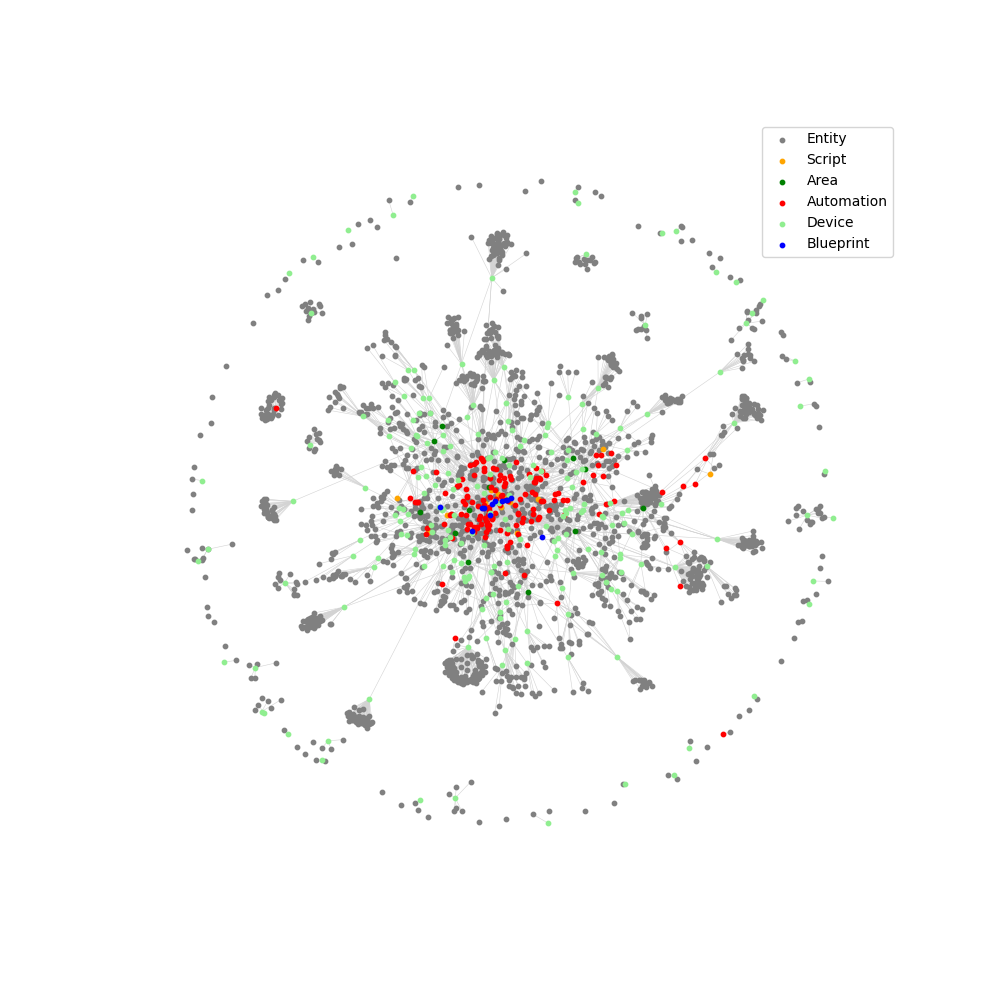
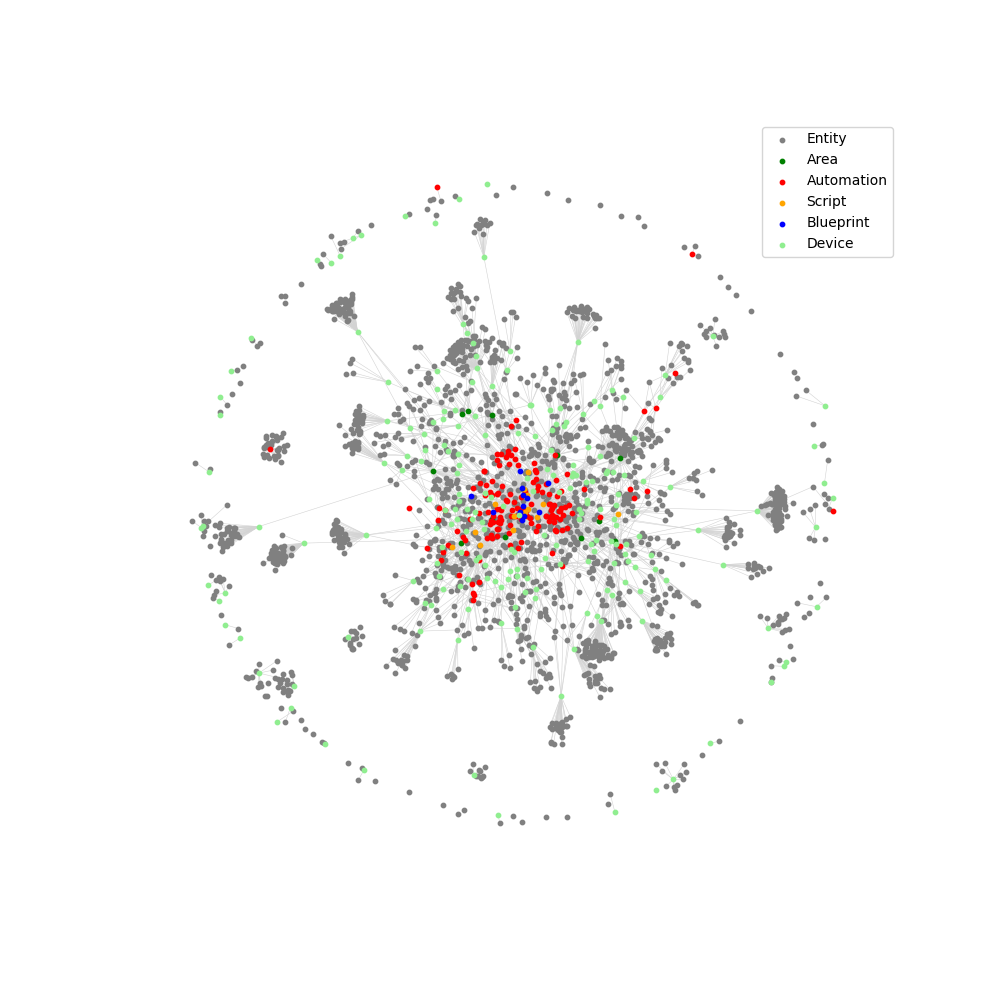
Convert Living Room Fan to template fan

diff --git a/README.md b/README.md
@@ -40,8 +40,8 @@ Domain | Quantity
 [`input_boolean`](https://www.home-assistant.io/components/input_boolean) | 12
 [`input_button`](https://www.home-assistant.io/components/input_button) | 1
 [`input_datetime`](https://www.home-assistant.io/components/input_datetime) | 17
-[`input_number`](https://www.home-assistant.io/components/input_number) | 23
-[`input_select`](https://www.home-assistant.io/components/input_select) | 11
+[`input_number`](https://www.home-assistant.io/components/input_number) | 24
+[`input_select`](https://www.home-assistant.io/components/input_select) | 12
 [`input_text`](https://www.home-assistant.io/components/input_text) | 20
 [`light`](https://www.home-assistant.io/components/light) | 72
 [`lock`](https://www.home-assistant.io/components/lock) | 1
@@ -64,7 +64,7 @@ Domain | Quantity
 [`wake_word`](https://www.home-assistant.io/components/wake_word) | 1
 [`weather`](https://www.home-assistant.io/components/weather) | 1
 [`zone`](https://www.home-assistant.io/components/zone) | 16
-Total | 1973
+Total | 1975
 
 ## Core Integrations
 - [AdGuard](https://home-assistant.io/integrations/adguard)